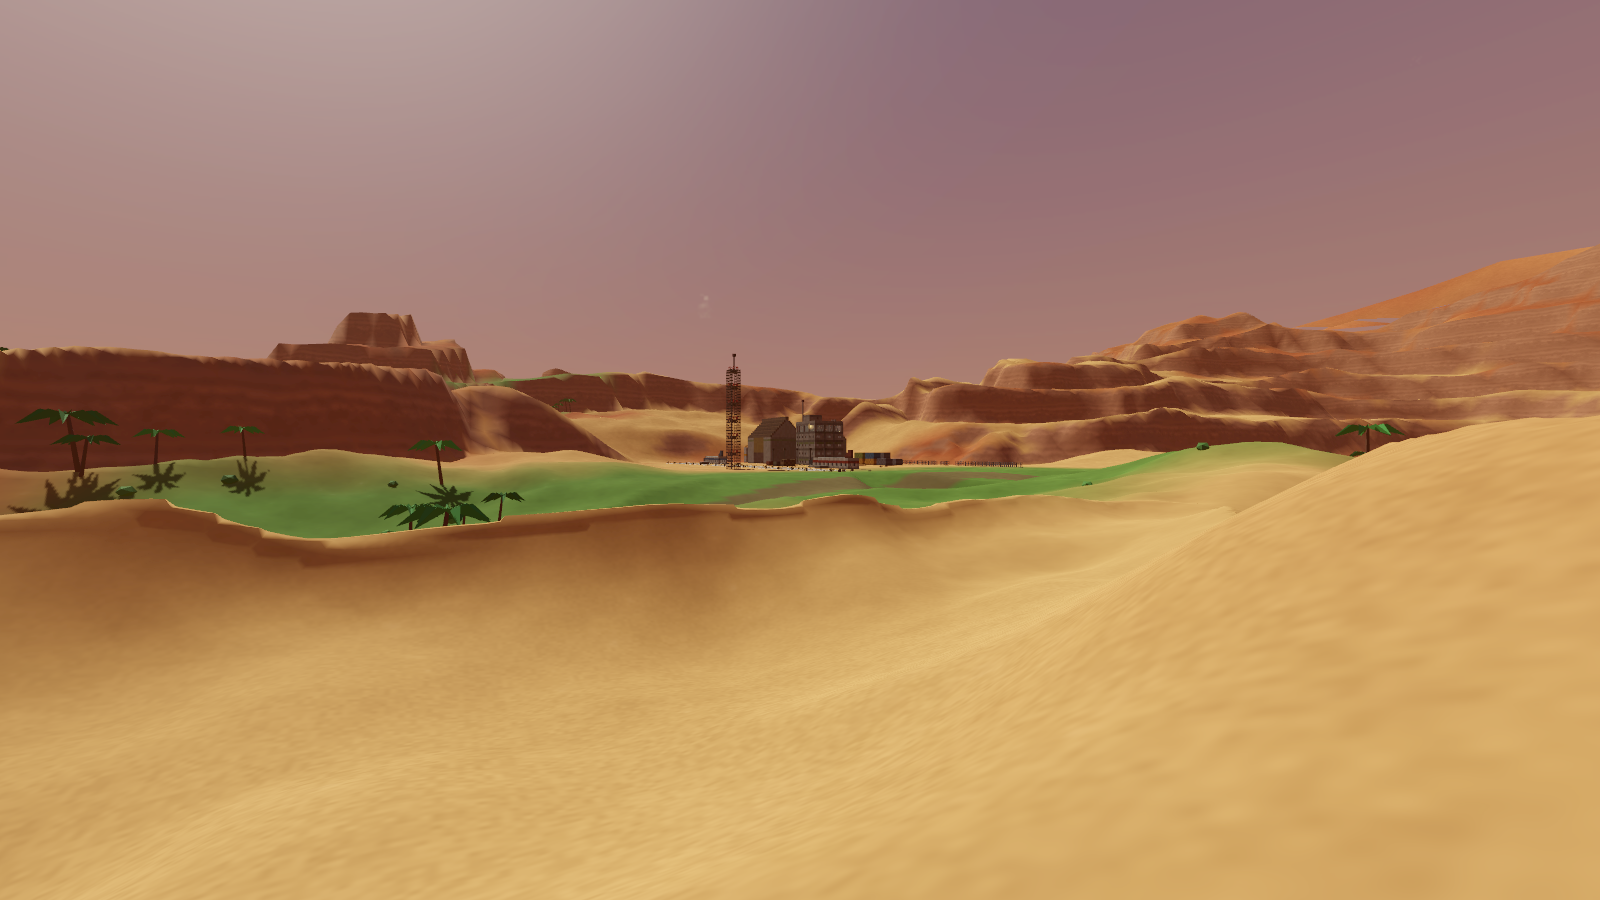
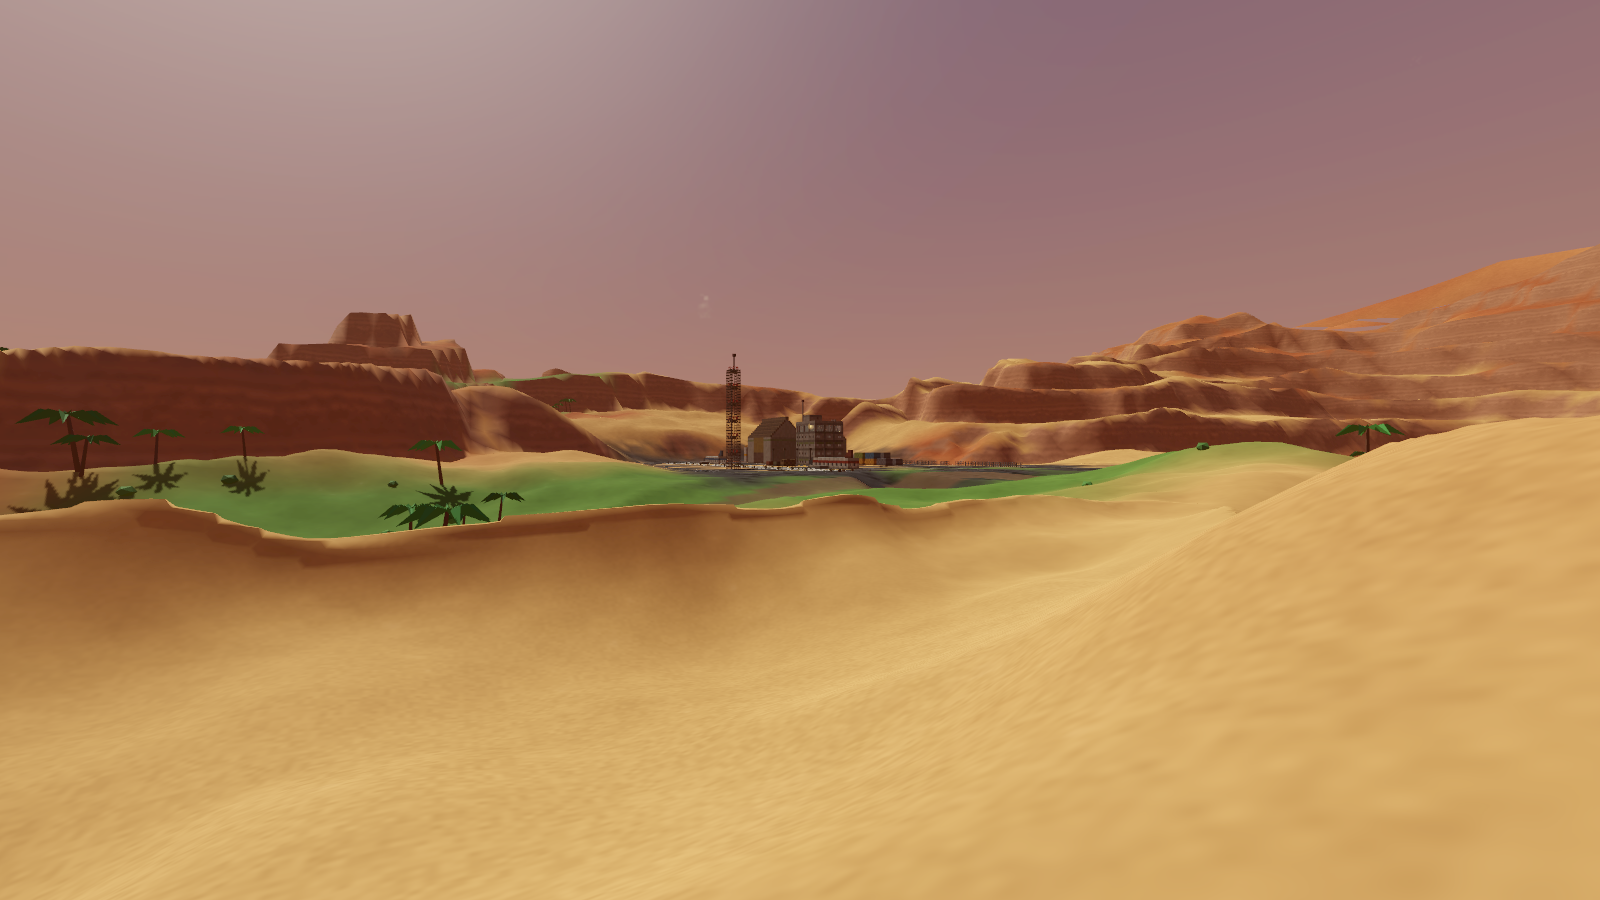
Made ground: aprons, yards and the land's own ground under places, never a lawn in the desert
A stamped pad now carries a surface that fits its purpose (TerrainStamp.Surface):
tarmac (airfields) and concrete in slabs (spaceports, bases, towns, faction
works), gravel for outposts, packed dirt for farms, settlements and gang camps,
the land's own ground (broken up with stone and bare earth, never a carpet)
for ruins and wrecks, and never a green patch on a desert world. It shows on
the pad and apron and gives way early in the blend along a ragged edge. Old
places (TerrainStamp.Wear from the place's age) are cracked, with the land's
own sand, soil and weeds drifted over in patches. Near voxels and far rings
both colour from it (GroundPalette.Made, PlanetTerrainSource.MadeGround).

SurfaceTest checks every pad's surface against the purpose table, that no
desert pad is green, and that every edge eases over metres.

Changed region(s): [[0.375, 0.4667, 0.6875, 0.56]]

diff --git a/prototypes/planet-surface/src/Terrain/GroundPalette.cs b/prototypes/planet-surface/src/Terrain/GroundPalette.cs
@@ -1,4 +1,5 @@
 using System;
+using GalHack.Terrain;
 using Planets.Gen;
 using Planets.Look;
 using TerrainDigging.Terrain;
@@ -183,6 +184,89 @@ public sealed class GroundPalette
         if (height < 0.6f) c = Rgb.Lerp(c, Seabed, Math.Clamp(0.6f - height, 0f, 1f));
         flags = new Vector2(glow * cover, 0f);
         return new Color(c.R, c.G, c.B, 1f - cover);
+    }
+
+    // ---- made ground ----------------------------------------------------------------------
+
+    /// <summary>
+    /// A stamped place's made ground over the land's colour. Concrete aprons in slabs, tarmac with
+    /// its cracks, gravel or packed-dirt yards; or the land's own ground, broken up so a pad is never
+    /// a uniform carpet. It shows on the pad and its apron and gives way early in the blend, along
+    /// a ragged edge, never a hard rectangle. A century of weather (<paramref name="wear"/>) cracks it
+    /// and drifts the land's own sand, soil and weeds over it in patches.
+    /// </summary>
+    public Color Made(Color land, StampSurface surface, float weight, float wear, double x, double z)
+    {
+        if (weight <= 0f) return land;
+        float edge = ValueNoise(x * 0.23, z * 0.23, 11) - 0.5f;
+        float w = SmoothStep(0.5f + edge * 0.4f, 0.92f, weight);
+        if (w <= 0f) return land;
+        var landRgb = new Rgb(land.R, land.G, land.B);
+        Rgb made;
+        float hard = 1f;
+        switch (surface)
+        {
+            case StampSurface.Natural:
+                // The land's own ground, trodden and patchy: soil broken by stone and bare earth.
+                made = Rgb.Lerp(landRgb, Rgb.Lerp(Rock, Seabed, 0.3f), 0.2f + 0.35f * ValueNoise(x * 0.11, z * 0.11, 23));
+                hard = 0.4f;
+                break;
+            case StampSurface.Tarmac:
+                made = new Rgb(0.21f, 0.21f, 0.22f) * (0.88f + 0.24f * ValueNoise(x * 0.6, z * 0.6, 5));
+                break;
+            case StampSurface.Gravel:
+                made = new Rgb(0.5f, 0.47f, 0.42f) * (0.85f + 0.3f * ValueNoise(x * 1.3, z * 1.3, 7));
+                break;
+            case StampSurface.Dirt:
+                made = Rgb.Lerp(new Rgb(0.43f, 0.34f, 0.25f), landRgb, 0.25f) * (0.85f + 0.3f * ValueNoise(x * 0.4, z * 0.4, 9));
+                hard = 0.7f;
+                break;
+            default:
+            {
+                made = new Rgb(0.56f, 0.55f, 0.52f) * (0.9f + 0.18f * ValueNoise(x * 0.5, z * 0.5, 3));
+                // Slab joints every six metres.
+                double jx = x / 6 - Math.Floor(x / 6), jz = z / 6 - Math.Floor(z / 6);
+                if (jx < 0.04 || jz < 0.04) made *= 0.8f;
+                break;
+            }
+        }
+        if (surface is StampSurface.Concrete or StampSurface.Tarmac)
+        {
+            // Cracks: thin dark lines along a ridge of noise, more of them the older it is.
+            float ridge = MathF.Abs(ValueNoise(x * 0.19, z * 0.19, 17) - 0.5f);
+            if (ridge < 0.015f + 0.035f * wear) made *= 0.55f;
+        }
+        // The weather takes it back in drifts: the land's own ground over it in patches.
+        float drift = ValueNoise(x * 0.07, z * 0.07, 29);
+        float over = SmoothStep(0.8f - 0.5f * wear, 1.05f, drift) * (0.3f + 0.7f * wear);
+        made = Rgb.Lerp(made, landRgb, over);
+        Rgb c = Rgb.Lerp(landRgb, made, w);
+        return new Color(c.R, c.G, c.B, land.A + (1f - land.A) * w * hard * (1f - over));
+    }
+
+    static float SmoothStep(float a, float b, float v)
+    {
+        float t = Math.Clamp((v - a) / (b - a), 0f, 1f);
+        return t * t * (3f - 2f * t);
+    }
+
+    /// <summary>Smooth value noise in [0, 1] on a unit lattice: cheap, seeded, the same everywhere it is asked.</summary>
+    static float ValueNoise(double x, double z, int salt)
+    {
+        double fx = Math.Floor(x), fz = Math.Floor(z);
+        float tx = (float)(x - fx), tz = (float)(z - fz);
+        tx = tx * tx * (3 - 2 * tx);
+        tz = tz * tz * (3 - 2 * tz);
+        long ix = (long)fx, iz = (long)fz;
+        float a = Lattice(ix, iz, salt), b = Lattice(ix + 1, iz, salt), c = Lattice(ix, iz + 1, salt), d = Lattice(ix + 1, iz + 1, salt);
+        return (a + (b - a) * tx) * (1 - tz) + (c + (d - c) * tx) * tz;
+    }
+
+    static float Lattice(long x, long z, int salt)
+    {
+        ulong h = (ulong)(x * 73856093L ^ z * 19349663L ^ salt * 83492791L);
+        h ^= h >> 33; h *= 0xff51afd7ed558ccdUL; h ^= h >> 33; h *= 0xc4ceb9fe1a85ec53UL; h ^= h >> 33;
+        return (h & 0xFFFFFF) / (float)0xFFFFFF;
     }
 
     void Jitter(double x, double z, out double gx, out double gz)

diff --git a/prototypes/planet-surface/tests/SurfaceTest.cs b/prototypes/planet-surface/tests/SurfaceTest.cs
@@ -234,6 +234,7 @@ public partial class SurfaceTest : Node
     {
         int sites = 0, floating = 0, doors = 0, corners = 0, overlaps = 0, gates = 0, steep = 0;
         int roomsFilled = 0;
+        int madeChecked = 0, wrongGround = 0, grassInDesert = 0, hardEdges = 0;
         var shapes = new Dictionary<StampShape, int>();
         double widest = 1;
         bool same = false;
@@ -296,6 +297,23 @@ public partial class SurfaceTest : Node
                         if (occ[local] && inst.Blocks.Get(local).IsAir && store.IsSolid(site.World(local))) roomsFilled++;
                     }
                 foreach (TerrainStamp extraStamp in site.Extra) shapes[extraStamp.Shape] = shapes.TryGetValue(extraStamp.Shape, out int sc) ? sc + 1 : 1;
+                // Made ground: the surface its purpose calls for; never grass on a desert world; eased in, never a hard edge.
+                madeChecked++;
+                if (t.Surface != PoiSiting.GroundFor(site.Family, (Archetype)a)) wrongGround++;
+                var (mcx, mcz) = site.Center;
+                Color centre = w.Palette.Made(w.Palette.Natural(mcx, mcz, pad, 1f, out _), t.Surface, 1f, t.Wear, mcx, mcz);
+                if (a == (int)Archetype.Arid && centre.G > centre.R * 1.08f && centre.G > centre.B * 1.08f) grassInDesert++;
+                for (int ray = 0; ray < 8; ray++)
+                {
+                    double ra = ray * Math.PI / 4, first = -1, last = -1;
+                    for (double d = 0; d < Math.Max(t.ReachX, t.ReachZ); d += 0.5)
+                    {
+                        w.Source.MadeGround(mcx + Math.Cos(ra) * d, mcz + Math.Sin(ra) * d, out float mw, out _);
+                        if (mw < 0.97f && first < 0) first = d;
+                        if (mw <= 0.5f) { last = d; break; }
+                    }
+                    if (first >= 0 && last >= 0 && last - first < 2.5) hardEdges++;
+                }
                 // Nothing buried: no block above the pad shares a cell with ground.
                 for (int y = 0; y < occ.Min.Y + occ.Size.Y; y++)
                 for (int z = 0; z < occ.Size.Z; z++)
@@ -355,6 +373,8 @@ public partial class SurfaceTest : Node
             await Frames(1);
         }
         GD.Print("      " + string.Join("; ", notes));
+        Check(wrongGround == 0 && grassInDesert == 0 && hardEdges == 0,
+            $"made ground: {madeChecked} pads laid in the surface their purpose calls for (tarmac and concrete aprons, gravel and dirt yards, the land's own ground for ruins); no grass on a desert world ({grassInDesert}); every edge eased over metres, never a hard line ({hardEdges})");
         Check(roomsFilled == 0 && shapes.Count >= 2, $"places sit in their land, not on flat pads: {string.Join(", ", shapes.Select(s => $"{s.Value} {s.Key.ToString().ToLowerInvariant()}"))} stamps beyond the pads; half-buried ruins keep their rooms open ({roomsFilled} room cells filled)");
         Check(sites >= 10 && floating == 0 && overlaps == 0 && doors == 0 && corners == 0,
             $"POIs seated: {sites} places on 5 worlds ({string.Join(", ", kinds.Select(k => $"{k.Value} {k.Key}"))}); " +

diff --git a/prototypes/planet-surface/src/Poi/PoiSiting.cs b/prototypes/planet-surface/src/Poi/PoiSiting.cs
@@ -378,7 +378,10 @@ public static class PoiSiting
             blend = wanted;
         }
         var stamp = new TerrainStamp(family.Name, ox + lx0, oz + lz0, ox + lx1, oz + lz1, bestPad, Apron, blend, width, height,
-            ox + occupied.Min.X, bestPad + occupied.Min.Y, oz + occupied.Min.Z, occupied.Size.X, carveH, occupied.Size.Z, carve);
+            ox + occupied.Min.X, bestPad + occupied.Min.Y, oz + occupied.Min.Z, occupied.Size.X, carveH, occupied.Size.Z, carve)
+        {
+            Surface = GroundFor(family, map.Def.Archetype), Wear = inst.Age switch { PoiGenerator.Gen.Age.New => 0.1f, PoiGenerator.Gen.Age.Preserved => 0.35f, _ => 0.85f },
+        };
 
         // Grounding: shapes that sit the place in its land rather than on a flat pad.
         var extra = new List<TerrainStamp>();
@@ -444,6 +447,26 @@ public static class PoiSiting
             Name = $"{family.Name}: {inst.Layout.Name} ({inst.State.ToString().ToLowerInvariant()})",
             Family = family, Instance = inst, Origin = origin, Footprint = footprint, Stamp = stamp,
             Siting = bestKind, CutFill = bestCut, Entrance = new TInt3(ox + e.X, bestPad + e.Y, oz + e.Z), Gates = gates, Extra = extra, HalfBuried = ruin,
+        };
+    }
+
+    /// <summary>
+    /// What a place's ground is made of, by purpose: tarmac or concrete aprons where aircraft stood
+    /// or a faction works, packed dirt for farms, settlements and gang camps, gravel for outposts,
+    /// and the land's own ground for ruins and wrecks. A family can name its own (ground).
+    /// </summary>
+    public static StampSurface GroundFor(FamilyDef family, Archetype? world = null)
+    {
+        // On a desert world the land's own ground under a place is sand and trodden dirt, never a green patch.
+        if (world == Archetype.Arid && GroundFor(family) == StampSurface.Natural) return StampSurface.Dirt;
+        if (family.Ground is { Length: > 0 } g && Enum.TryParse(g, true, out StampSurface named)) return named;
+        if (family.Tags.Contains("farm") || family.Tags.Contains("settlement") || family.Tags.Contains("gang")) return StampSurface.Dirt;
+        if (family.Tags.Contains("alien") || family.Tags.Contains("wreck") || family.Tags.Contains("precursor")) return StampSurface.Natural;
+        return family.Tier switch
+        {
+            PoiTier.Spaceport or PoiTier.City or PoiTier.Town or PoiTier.Base => StampSurface.Concrete,
+            PoiTier.Outpost or PoiTier.Camp => StampSurface.Gravel,
+            _ => StampSurface.Natural,
         };
     }
 

diff --git a/shared/Terrain/TerrainStamp.cs b/shared/Terrain/TerrainStamp.cs
@@ -15,6 +15,9 @@ namespace GalHack.Terrain;
 /// seed, so every machine generates the same pad, and digging rules still apply on top of it.
 /// Coordinates are world cells on the torus; distances wrap across both seams.
 /// </summary>
+/// <summary>What the ground of a stamped place is made of: its own land, or a made surface laid on it.</summary>
+public enum StampSurface : byte { Natural, Concrete, Tarmac, Gravel, Dirt }
+
 /// <summary>What a stamp does to the ground: see <see cref="TerrainStamp.Shape"/>.</summary>
 public enum StampShape : byte { Pad, Bowl, Terraces, Cut, Tilt, Furrow }
 
@@ -111,6 +114,11 @@ public sealed class TerrainStamp
     // A stamp is a pad unless it says otherwise. The others ground a place in its landscape and
     // compose with any pad under them (Compose applies them in list order): a crater bowl, terraces
     // stepping down a slope, an approach cut, a tilt that half-buries a ruin, an impact furrow.
+
+    /// <summary>The made ground on a pad: concrete or tarmac aprons, gravel or packed dirt yards, or the land's own ground (Natural).</summary>
+    public StampSurface Surface { get; init; } = StampSurface.Natural;
+    /// <summary>How long it has been left: 0 kept up, 1 a century of weather (cracked, sand and weeds drifted over).</summary>
+    public float Wear { get; init; }
 
     /// <summary>The stamp's shape: Pad (the default), Bowl, Terraces, Cut, Tilt or Furrow.</summary>
     public StampShape Shape { get; init; } = StampShape.Pad;

diff --git a/shared/Terrain/PlanetTerrainSource.cs b/shared/Terrain/PlanetTerrainSource.cs
@@ -122,6 +122,27 @@ public sealed class PlanetTerrainSource : ITerrainSource
         return s with { Height = TerrainStamp.Compose(Stamps, s.Height, x, z) };
     }
 
+    /// <summary>
+    /// The made ground at a point: the surface of the pad that applies most here, how much of it
+    /// shows (eased off well inside the blend, so a made apron never ends in a hard edge), and how worn it is.
+    /// </summary>
+    public StampSurface MadeGround(double x, double z, out float weight, out float wear)
+    {
+        weight = 0f;
+        wear = 0f;
+        StampSurface best = StampSurface.Natural;
+        foreach (TerrainStamp t in Stamps)
+        {
+            if (t.Shape != StampShape.Pad) continue;
+            float w = t.Weight(x, z);
+            if (w <= weight) continue;
+            weight = w;
+            wear = t.Wear;
+            best = t.Surface;
+        }
+        return best;
+    }
+
     /// <summary>How much any stamp covers a point (0 none, 1 on a pad).</summary>
     public float StampWeight(double x, double z)
     {

diff --git a/prototypes/poi-generator/src/Gen/Family.cs b/prototypes/poi-generator/src/Gen/Family.cs
@@ -126,6 +126,8 @@ public sealed class FamilyDef
     /// such as alien works: the same rooms and plans built in another kit.
     /// </summary>
     public string? Style;
+    /// <summary>The made ground of its pad on a planet (concrete, tarmac, gravel, dirt or natural); empty picks by purpose.</summary>
+    public string? Ground;
 
     public Generator Generator => Site != null ? Generator.Site : Program != null ? Generator.Building : Generator.Kit;
 
@@ -188,6 +190,7 @@ public static class FamilyParser
                 case "rise": F().Rise = int.Parse(p[1], CultureInfo.InvariantCulture); break;
                 case "tier": F().Tier = Enum<PoiTier>(p[1], Error); break;
                 case "style": F().Style = p[1]; break;
+                case "ground": F().Ground = p[1]; break;
                 case "faction": F().Faction = Enum<Faction>(p[1], Error); break;
                 case "roster": F().Roster = p[1]; break;
                 case "kit": F().Kits["main"] = new KitRef(p[1], p.Length > 2 ? p[2] : ""); break;

diff --git a/prototypes/planet-surface/src/Terrain/VoxelMeshing.cs b/prototypes/planet-surface/src/Terrain/VoxelMeshing.cs
@@ -74,6 +74,8 @@ public static class VoxelMeshing
                         {
                             float slope2 = PlanetTerrainSource.BroadSlope2(column, fx, fz);
                             job.Colors[i] = palette.Natural(x, z, p.Y, source.SoilCover(x, z, slope2), out job.Flags[i]);
+                            StampSurface made = source.MadeGround(x, z, out float madeWeight, out float wear);
+                            if (madeWeight > 0f) job.Colors[i] = palette.Made(job.Colors[i], made, madeWeight, wear, x, z);
                             continue;
                         }
                     }

diff --git a/prototypes/planet-surface/src/Terrain/FarBuilder.cs b/prototypes/planet-surface/src/Terrain/FarBuilder.cs
@@ -142,6 +142,8 @@ public static class FarBuilder
     static Color GroundColor(PlanetTerrainSource source, GroundPalette pal, double x, double z, float h, float slope2, bool inRiver, out Vector2 flags)
     {
         Color c = pal.Natural(x, z, h, source.SoilCover(x, z, slope2), out flags);
+        StampSurface made = source.MadeGround(x, z, out float madeWeight, out float wear);
+        if (madeWeight > 0f) c = pal.Made(c, made, madeWeight, wear, x, z);
         if (inRiver)
         {
             Rgb bed = pal.RiverBed;
